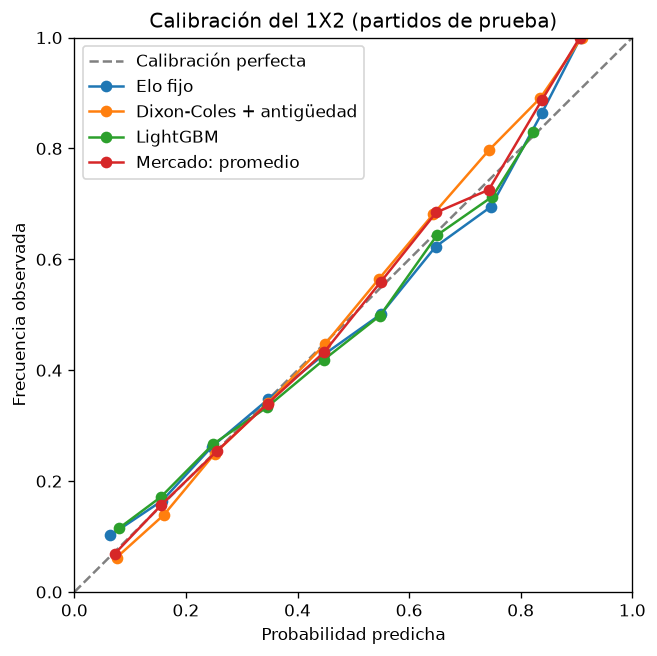
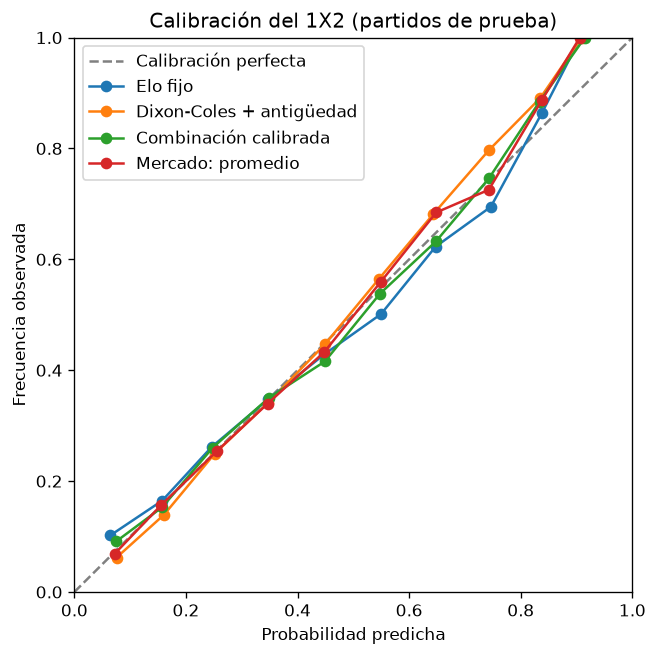
feat(eval): tune lightgbm and blend models inside each training window

diff --git a/scripts/evaluate_models.py b/scripts/evaluate_models.py
@@ -31,6 +31,7 @@ ROOT = Path(__file__).resolve().parent.parent
 sys.path.insert(0, str(ROOT / "src"))
 
 from sports_predictor.calibration import calibration_table  # noqa: E402
+from sports_predictor.ensemble import blend, fit_blend_weights, fit_temperature, temperature_scale  # noqa: E402
 from sports_predictor.football.baselines import (  # noqa: E402
     elo_probabilities,
     elo_rating_diffs,
@@ -62,13 +63,19 @@ LGBM_PARAMS = dict(
     subsample=0.8, subsample_freq=1, colsample_bytree=0.8, reg_lambda=5.0,
     random_state=SEED, n_jobs=1, deterministic=True, force_row_wise=True, verbose=-1,
 )
+# LightGBM ajustado: combinaciones que se prueban en cada ventana, sobre los valores de LGBM_PARAMS.
+LGBM_GRID = [
+    {"num_leaves": leaves, "n_estimators": trees, "min_child_samples": min_child}
+    for leaves in (4, 8) for trees in (100, 200, 400) for min_child in (50, 150)
+]
 GBM_FEATURES = ["elo_diff", "expected_goals_home", "expected_goals_away"] + FEATURE_COLS
 
-FREQ, ELO, POISSON, DC, PW, DCW, GBM, MARKET = (
+FREQ, ELO, POISSON, DC, PW, DCW, GBM, GBMT, ENS, ENSC, MARKET = (
     "Frecuencias históricas", "Elo fijo", "Poisson", "Dixon-Coles", "Poisson + antigüedad",
-    "Dixon-Coles + antigüedad", "LightGBM", "Mercado: promedio",
+    "Dixon-Coles + antigüedad", "LightGBM", "LightGBM ajustado", "Combinación", "Combinación calibrada",
+    "Mercado: promedio",
 )
-MODELS_1X2 = [FREQ, ELO, POISSON, DC, PW, DCW, GBM, MARKET]
+MODELS_1X2 = [FREQ, ELO, POISSON, DC, PW, DCW, GBM, GBMT, ENS, ENSC, MARKET]
 MODELS_OU = ["Frecuencia histórica", POISSON, DC, PW, DCW, MARKET]
 
 
@@ -129,17 +136,55 @@ def main() -> None:
         gain = gbm.booster_.feature_importance(importance_type="gain")
         importances.append(gain / gain.sum())
 
+        # Elecciones con validación interna: se repite la ventana expansiva DENTRO de las temporadas de
+        # entrenamiento (ajustar con las primeras, validar en la siguiente). La temporada de prueba no
+        # interviene en ninguna elección.
+        inner = list(expanding_season_splits(train_seasons, min_train_seasons=2))
+        inner_val = np.zeros(len(matches), dtype=bool)
+        elo_inner = np.full((len(matches), 3), np.nan)
+        gbm_inner = [np.full((len(matches), 3), np.nan) for _ in LGBM_GRID]
+        for fit_seasons, val_season in inner:
+            fit, v = np.isin(season, fit_seasons), season == val_season
+            inner_val |= v
+            elo_inner[v] = elo_probabilities(elo_diffs[fit], outcomes[fit], elo_diffs[v])
+            for i, params in enumerate(LGBM_GRID):
+                model = lgb.LGBMClassifier(**{**LGBM_PARAMS, **params}).fit(features[fit], outcomes[fit])
+                gbm_inner[i][v] = model.predict_proba(features[v])
+        y_inner = outcomes[inner_val]
+        best_gbm = min(range(len(LGBM_GRID)), key=lambda i: log_loss(gbm_inner[i][inner_val], y_inner))
+        gbm_params = {**LGBM_PARAMS, **LGBM_GRID[best_gbm]}
+        gbm_tuned = lgb.LGBMClassifier(**gbm_params).fit(features[train], outcomes[train])
+
+        # Combinación de Elo, Dixon-Coles + antigüedad y LightGBM ajustado, con pesos y temperatura
+        # elegidos en esa misma validación interna.
+        inner_components = [elo_inner[inner_val], dc_probs[best][inner_val], gbm_inner[best_gbm][inner_val]]
+        weights = fit_blend_weights(inner_components, y_inner)
+        temperature = fit_temperature(blend(inner_components, weights), y_inner)
+        chosen[-1].update({
+            "LightGBM (hojas / árboles / mín. por hoja)":
+                "{num_leaves} / {n_estimators} / {min_child_samples}".format(**gbm_params),
+            "Pesos Elo / Dixon-Coles / LightGBM": " / ".join(f"{w:.1f}" for w in weights),
+            "Temperatura": f"{temperature:.2f}",
+        })
+
         test_matches = matches[test]
         freq_over = over[train].mean()
+        elo_test = elo_probabilities(elo_diffs[train], outcomes[train], elo_diffs[test])
+        dcw_test = outcome_probabilities(m_dcw)
+        gbmt_test = gbm_tuned.predict_proba(features[test])
+        ensemble = blend([elo_test, dcw_test, gbmt_test], weights)
         probs = {
             "1X2": {
                 FREQ: frequency_probabilities(matches[train], n_test),
-                ELO: elo_probabilities(elo_diffs[train], outcomes[train], elo_diffs[test]),
+                ELO: elo_test,
                 POISSON: outcome_probabilities(m_poisson),
                 DC: outcome_probabilities(m_dc),
                 PW: outcome_probabilities(m_pw),
-                DCW: outcome_probabilities(m_dcw),
+                DCW: dcw_test,
                 GBM: gbm.predict_proba(features[test]),
+                GBMT: gbmt_test,
+                ENS: ensemble,
+                ENSC: temperature_scale(ensemble, temperature),
                 MARKET: implied_probabilities(test_matches[["AvgH", "AvgD", "AvgA"]]),
             },
             # Columnas en orden (menos de 2.5, más de 2.5), para que la clase 1 sea "más de 2.5".
@@ -183,6 +228,13 @@ def main() -> None:
         f"- **LightGBM:** {len(GBM_FEATURES)} variables previas al partido: diferencia de Elo, goles esperados del modelo de "
         f"goles, y forma de los últimos 5 partidos de cada equipo (puntos, goles, tiros a puerta, puntos en su condición de "
         f"local o visitante, días de descanso). Hiperparámetros fijos, sin ajustar; semilla {SEED}.",
+        f"- **LightGBM ajustado:** las mismas variables; en cada ventana se prueban {len(LGBM_GRID)} combinaciones de "
+        "hiperparámetros (hojas, árboles y mínimo de partidos por hoja) repitiendo la ventana expansiva dentro de las "
+        "temporadas de entrenamiento, y se queda la de menor log loss.",
+        "- **Combinación:** promedio ponderado de Elo fijo, Dixon-Coles + antigüedad y LightGBM ajustado, con pesos "
+        "múltiplos de 0,1 elegidos con esa misma validación interna. **Combinación calibrada:** además aplica un escalado "
+        "de temperatura (cada probabilidad elevada a 1/T y renormalizada), con T elegida igual. La temporada de prueba "
+        "no interviene en ninguna elección.",
         "- **Mercado:** promedio de las casas, con el margen removido (normalización proporcional).",
         "- En todas las métricas, menos es mejor.",
     ]
@@ -212,7 +264,7 @@ def main() -> None:
         return
 
     by_season.to_csv(ROOT / "reports" / "model_metrics_by_season.csv", index=False, float_format="%.7f")
-    calibrated = [ELO, DCW, GBM, MARKET]
+    calibrated = [ELO, DCW, ENSC, MARKET]
     calibration = pd.concat(
         [calibration_table(stacked["1X2"][m], y_1x2).assign(model=m) for m in calibrated], ignore_index=True
     )
@@ -233,7 +285,7 @@ def main() -> None:
         "",
         f"## Resultado 1X2 (los {len(y_1x2)} partidos de prueba juntos)", "", _markdown_table(overall_1x2), "",
         f"## Más/menos de 2.5 goles (los {len(y_ou)} partidos de prueba juntos)", "", _markdown_table(overall_ou), "",
-        "## Vida media elegida en cada ventana", "", _markdown_table(pd.DataFrame(chosen)), "",
+        "## Elecciones hechas en cada ventana (solo con temporadas de entrenamiento)", "", _markdown_table(pd.DataFrame(chosen)), "",
     ]
     for market, title, models in [("1X2", "1X2", MODELS_1X2), ("OU", "más/menos de 2.5 goles", MODELS_OU)]:
         pivot = by_season[by_season["market"] == market].pivot(index="test_season", columns="model", values="log_loss")[models]

diff --git a/reports/final_report.md b/reports/final_report.md
@@ -7,6 +7,8 @@ Generado por `python scripts/evaluate_models.py`. No editar a mano.
 - **Elo fijo:** K = 20, ventaja de local = 60.
 - **Modelos de goles:** penalización = 10, reajuste en cada fecha con los partidos anteriores. Dixon-Coles corrige los marcadores 0-0, 1-0, 0-1 y 1-1. El peso por antigüedad hace que un partido cuente la mitad cada vez que pasa una vida media; la vida media se elige en cada ventana, entre ['sin peso', 1095, 730, 365, 180] días, con el log loss de las temporadas de entrenamiento.
 - **LightGBM:** 17 variables previas al partido: diferencia de Elo, goles esperados del modelo de goles, y forma de los últimos 5 partidos de cada equipo (puntos, goles, tiros a puerta, puntos en su condición de local o visitante, días de descanso). Hiperparámetros fijos, sin ajustar; semilla 0.
+- **LightGBM ajustado:** las mismas variables; en cada ventana se prueban 12 combinaciones de hiperparámetros (hojas, árboles y mínimo de partidos por hoja) repitiendo la ventana expansiva dentro de las temporadas de entrenamiento, y se queda la de menor log loss.
+- **Combinación:** promedio ponderado de Elo fijo, Dixon-Coles + antigüedad y LightGBM ajustado, con pesos múltiplos de 0,1 elegidos con esa misma validación interna. **Combinación calibrada:** además aplica un escalado de temperatura (cada probabilidad elevada a 1/T y renormalizada), con T elegida igual. La temporada de prueba no interviene en ninguna elección.
 - **Mercado:** promedio de las casas, con el margen removido (normalización proporcional).
 - En todas las métricas, menos es mejor.
 
@@ -21,6 +23,9 @@ Generado por `python scripts/evaluate_models.py`. No editar a mano.
 | Poisson + antigüedad | 0.9731 | 0.5779 | 0.2014 |
 | Dixon-Coles + antigüedad | 0.9739 | 0.5783 | 0.2015 |
 | LightGBM | 0.9808 | 0.5821 | 0.2028 |
+| LightGBM ajustado | 0.9786 | 0.5809 | 0.2024 |
+| Combinación | 0.9716 | 0.5767 | 0.2007 |
+| Combinación calibrada | 0.9717 | 0.5768 | 0.2008 |
 | Mercado: promedio | 0.9584 | 0.5680 | 0.1965 |
 
 ## Más/menos de 2.5 goles (los 3040 partidos de prueba juntos)
@@ -34,31 +39,31 @@ Generado por `python scripts/evaluate_models.py`. No editar a mano.
 | Dixon-Coles + antigüedad | 0.6822 | 0.4890 |
 | Mercado: promedio | 0.6755 | 0.4826 |
 
-## Vida media elegida en cada ventana
+## Elecciones hechas en cada ventana (solo con temporadas de entrenamiento)
 
-| Temporada de prueba | Vida media elegida (días) |
-|---|---|
-| 2018/19 | 365 |
-| 2019/20 | 365 |
-| 2020/21 | 365 |
-| 2021/22 | 365 |
-| 2022/23 | 365 |
-| 2023/24 | 365 |
-| 2024/25 | 365 |
-| 2025/26 | 365 |
+| Temporada de prueba | Vida media elegida (días) | LightGBM (hojas / árboles / mín. por hoja) | Pesos Elo / Dixon-Coles / LightGBM | Temperatura |
+|---|---|---|---|---|
+| 2018/19 | 365 | 4 / 100 / 50 | 0.1 / 0.7 / 0.2 | 0.92 |
+| 2019/20 | 365 | 4 / 100 / 50 | 0.2 / 0.5 / 0.3 | 0.88 |
+| 2020/21 | 365 | 4 / 100 / 50 | 0.2 / 0.6 / 0.2 | 0.90 |
+| 2021/22 | 365 | 4 / 100 / 50 | 0.0 / 0.7 / 0.3 | 0.92 |
+| 2022/23 | 365 | 4 / 100 / 50 | 0.1 / 0.6 / 0.3 | 0.93 |
+| 2023/24 | 365 | 4 / 100 / 50 | 0.2 / 0.5 / 0.3 | 0.96 |
+| 2024/25 | 365 | 4 / 100 / 50 | 0.2 / 0.5 / 0.3 | 0.94 |
+| 2025/26 | 365 | 4 / 100 / 50 | 0.3 / 0.5 / 0.2 | 0.96 |
 
 ## Log loss por temporada de prueba: 1X2
 
-| Temporada de prueba | Frecuencias históricas | Elo fijo | Poisson | Dixon-Coles | Poisson + antigüedad | Dixon-Coles + antigüedad | LightGBM | Mercado: promedio |
-|---|---|---|---|---|---|---|---|---|
-| 2018/19 | 1.0469 | 0.9061 | 0.9032 | 0.9077 | 0.8985 | 0.9035 | 0.9010 | 0.8936 |
-| 2019/20 | 1.0645 | 0.9852 | 0.9712 | 0.9713 | 0.9720 | 0.9723 | 0.9895 | 0.9726 |
-| 2020/21 | 1.0890 | 1.0506 | 1.0256 | 1.0284 | 1.0136 | 1.0156 | 1.0327 | 1.0042 |
-| 2021/22 | 1.0695 | 0.9524 | 0.9516 | 0.9517 | 0.9532 | 0.9532 | 0.9580 | 0.9360 |
-| 2022/23 | 1.0510 | 0.9841 | 1.0188 | 1.0199 | 0.9937 | 0.9944 | 0.9912 | 0.9658 |
-| 2023/24 | 1.0540 | 0.9261 | 0.9419 | 0.9424 | 0.9333 | 0.9328 | 0.9288 | 0.9093 |
-| 2024/25 | 1.0811 | 0.9830 | 1.0552 | 1.0554 | 0.9933 | 0.9932 | 0.9978 | 0.9706 |
-| 2025/26 | 1.0838 | 1.0415 | 1.0579 | 1.0568 | 1.0275 | 1.0261 | 1.0477 | 1.0153 |
+| Temporada de prueba | Frecuencias históricas | Elo fijo | Poisson | Dixon-Coles | Poisson + antigüedad | Dixon-Coles + antigüedad | LightGBM | LightGBM ajustado | Combinación | Combinación calibrada | Mercado: promedio |
+|---|---|---|---|---|---|---|---|---|---|---|---|
+| 2018/19 | 1.0469 | 0.9061 | 0.9032 | 0.9077 | 0.8985 | 0.9035 | 0.9010 | 0.9023 | 0.8994 | 0.8949 | 0.8936 |
+| 2019/20 | 1.0645 | 0.9852 | 0.9712 | 0.9713 | 0.9720 | 0.9723 | 0.9895 | 0.9838 | 0.9709 | 0.9733 | 0.9726 |
+| 2020/21 | 1.0890 | 1.0506 | 1.0256 | 1.0284 | 1.0136 | 1.0156 | 1.0327 | 1.0279 | 1.0185 | 1.0230 | 1.0042 |
+| 2021/22 | 1.0695 | 0.9524 | 0.9516 | 0.9517 | 0.9532 | 0.9532 | 0.9580 | 0.9569 | 0.9515 | 0.9493 | 0.9360 |
+| 2022/23 | 1.0510 | 0.9841 | 1.0188 | 1.0199 | 0.9937 | 0.9944 | 0.9912 | 0.9868 | 0.9875 | 0.9880 | 0.9658 |
+| 2023/24 | 1.0540 | 0.9261 | 0.9419 | 0.9424 | 0.9333 | 0.9328 | 0.9288 | 0.9298 | 0.9276 | 0.9259 | 0.9093 |
+| 2024/25 | 1.0811 | 0.9830 | 1.0552 | 1.0554 | 0.9933 | 0.9932 | 0.9978 | 0.9977 | 0.9884 | 0.9893 | 0.9706 |
+| 2025/26 | 1.0838 | 1.0415 | 1.0579 | 1.0568 | 1.0275 | 1.0261 | 1.0477 | 1.0438 | 1.0286 | 1.0298 | 1.0153 |
 
 ## Log loss por temporada de prueba: más/menos de 2.5 goles
 
@@ -133,19 +138,20 @@ Se juntan las tres probabilidades de cada partido y se agrupan en tramos de 10 p
 | 0.8 a 0.9 | 55 | 0.8349 | 0.8909 |
 | 0.9 a 1.0 | 2 | 0.9093 | 1.0000 |
 
-### LightGBM
+### Combinación calibrada
 
 | Tramo | n | predicho | observado |
 |---|---|---|---|
-| 0.0 a 0.1 | 435 | 0.0798 | 0.1149 |
-| 0.1 a 0.2 | 1942 | 0.1552 | 0.1715 |
-| 0.2 a 0.3 | 2668 | 0.2489 | 0.2669 |
-| 0.3 a 0.4 | 1370 | 0.3446 | 0.3328 |
-| 0.4 a 0.5 | 923 | 0.4476 | 0.4193 |
-| 0.5 a 0.6 | 682 | 0.5479 | 0.4985 |
-| 0.6 a 0.7 | 525 | 0.6501 | 0.6438 |
-| 0.7 a 0.8 | 457 | 0.7493 | 0.7133 |
-| 0.8 a 0.9 | 118 | 0.8226 | 0.8305 |
+| 0.0 a 0.1 | 318 | 0.0749 | 0.0912 |
+| 0.1 a 0.2 | 1613 | 0.1577 | 0.1531 |
+| 0.2 a 0.3 | 3334 | 0.2476 | 0.2600 |
+| 0.3 a 0.4 | 1162 | 0.3487 | 0.3503 |
+| 0.4 a 0.5 | 981 | 0.4490 | 0.4159 |
+| 0.5 a 0.6 | 727 | 0.5475 | 0.5378 |
+| 0.6 a 0.7 | 517 | 0.6481 | 0.6325 |
+| 0.7 a 0.8 | 363 | 0.7433 | 0.7466 |
+| 0.8 a 0.9 | 104 | 0.8338 | 0.8846 |
+| 0.9 a 1.0 | 1 | 0.9149 | 1.0000 |
 
 ### Mercado: promedio
 

diff --git a/reports/final_test.md b/reports/final_test.md
@@ -7,6 +7,8 @@ Esta temporada estuvo reservada: ningún modelo ni decisión de diseño la usó.
 - **Elo fijo:** K = 20, ventaja de local = 60.
 - **Modelos de goles:** penalización = 10, reajuste en cada fecha con los partidos anteriores. Dixon-Coles corrige los marcadores 0-0, 1-0, 0-1 y 1-1. El peso por antigüedad hace que un partido cuente la mitad cada vez que pasa una vida media; la vida media se elige en cada ventana, entre ['sin peso', 1095, 730, 365, 180] días, con el log loss de las temporadas de entrenamiento.
 - **LightGBM:** 17 variables previas al partido: diferencia de Elo, goles esperados del modelo de goles, y forma de los últimos 5 partidos de cada equipo (puntos, goles, tiros a puerta, puntos en su condición de local o visitante, días de descanso). Hiperparámetros fijos, sin ajustar; semilla 0.
+- **LightGBM ajustado:** las mismas variables; en cada ventana se prueban 12 combinaciones de hiperparámetros (hojas, árboles y mínimo de partidos por hoja) repitiendo la ventana expansiva dentro de las temporadas de entrenamiento, y se queda la de menor log loss.
+- **Combinación:** promedio ponderado de Elo fijo, Dixon-Coles + antigüedad y LightGBM ajustado, con pesos múltiplos de 0,1 elegidos con esa misma validación interna. **Combinación calibrada:** además aplica un escalado de temperatura (cada probabilidad elevada a 1/T y renormalizada), con T elegida igual. La temporada de prueba no interviene en ninguna elección.
 - **Mercado:** promedio de las casas, con el margen removido (normalización proporcional).
 - En todas las métricas, menos es mejor.
 - **Vida media elegida:** 365.
@@ -22,6 +24,9 @@ Esta temporada estuvo reservada: ningún modelo ni decisión de diseño la usó.
 | Poisson + antigüedad | 1.0218 | 0.6110 | 0.2084 |
 | Dixon-Coles + antigüedad | 1.0203 | 0.6101 | 0.2083 |
 | LightGBM | 1.0327 | 0.6175 | 0.2111 |
+| LightGBM ajustado | 1.0319 | 0.6175 | 0.2115 |
+| Combinación | 1.0197 | 0.6093 | 0.2078 |
+| Combinación calibrada | 1.0196 | 0.6092 | 0.2078 |
 | Mercado: promedio | 1.0121 | 0.6053 | 0.2056 |
 
 ## Más/menos de 2.5 goles
